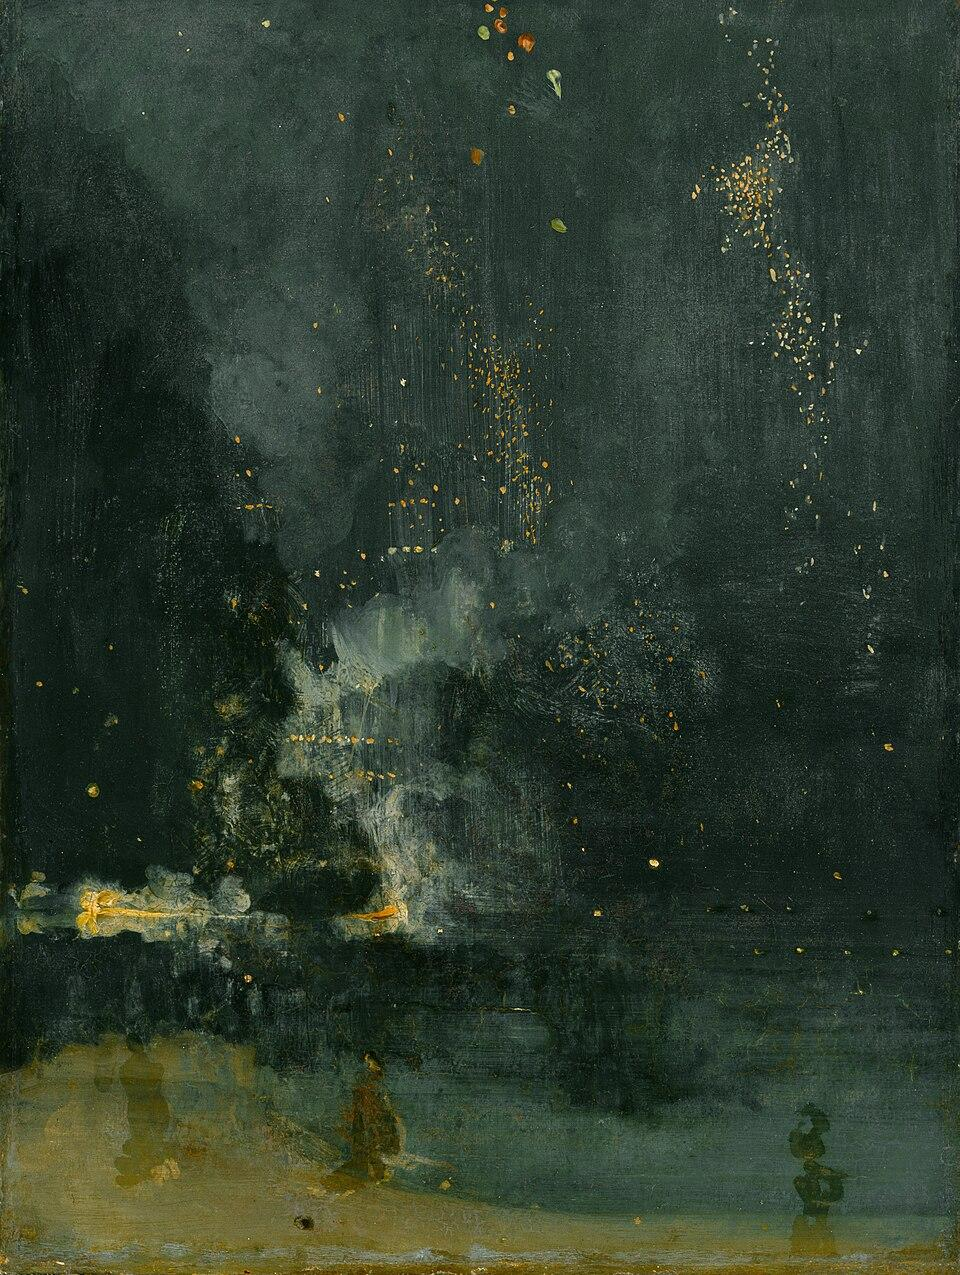
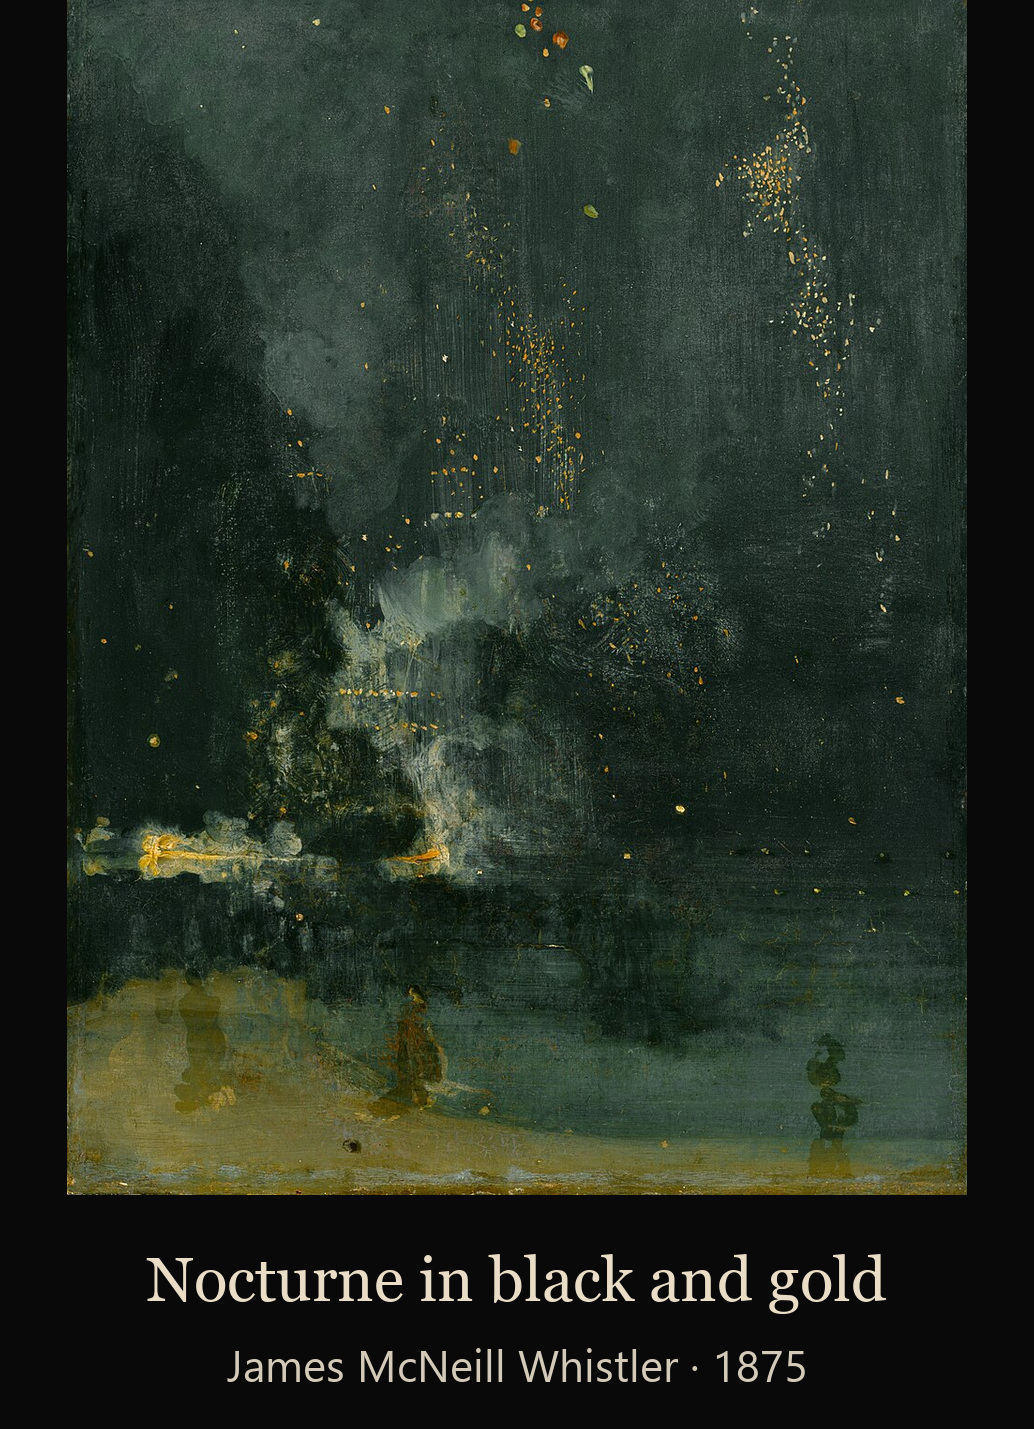
Update gallery paintings with consistent title and artist-year captions

diff --git a/Paintings/README.md b/Paintings/README.md
@@ -1,5 +1,7 @@
 # After Dark paintings
 
-Gallery artwork served directly to the After Dark VRChat world. Artist and artwork names are included in each filename. Images are JPEG, at most 2048 pixels on either axis; Witches Flight was resized to meet that limit.
+Gallery panels served directly to the After Dark VRChat world. Each JPEG now contains the artwork and its caption: a larger title, followed by artist and creation year together. All eight filenames and material keys are preserved. Images are at most 2048 pixels on either axis.
 
-The world uses raw.githubusercontent.com URLs and displays its bundled PLEASE ENABLE UNTRUSTED URLS image until a download succeeds. The manifest records the published dimensions and SHA-256 checksums.
+The world uses raw.githubusercontent.com URLs and displays its bundled PLEASE ENABLE UNTRUSTED URLS image until a download succeeds. The manifest records dimensions, SHA-256 checksums, artwork and caption rectangles, and physical panel dimensions. Coordinates in pixel rectangles start at the top left.
+
+These files require combined-panel mesh UVs: map the complete front, including the caption, to the same M_Paint_ material. Do not keep a separate visible caption material. The Blender source and Unity reconnect code have been updated for this layout. Existing world builds with old art-only UVs need a subsequent source export and world update; changing these files alone cannot update already-published geometry.
